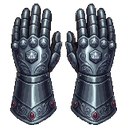
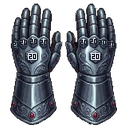
Mythic touches: 20 on every gauntlet die, blood on the mask, a golfer figurine
Drawn as pixel art on the finished 128px icons (cut_mythic_art.py
TOUCHES) so they read at game size: every die on the Gauntlets of Dungeon
Mastering reads 20, a few blood drips and spatters round Hannibals Mask's
mouth grille, and a small gold fist-pumping golfer on Tigers Sunday Red's
right chest.

test_bladed_doughnut: the Wooden Sword's slot test used Slash, which has
no slot label and so can never be slotted (the labels rule); it now
slots Savage Strike, a Sword card, and checks Slash is refused.

Claude-Session: https://claude.ai/code/session_012Y7A5C94YdKvjr5EFVon5m

diff --git a/tools/cut_mythic_art.py b/tools/cut_mythic_art.py
@@ -242,8 +242,131 @@ def cut(sheet: Image.Image, box, fix=None, tols=None) -> Image.Image:
     size = (max(1, round(piece.width * scale)), max(1, round(piece.height * scale)))
     small = piece.convert("RGBa").resize(size, Image.LANCZOS).convert("RGBA")
     out = Image.new("RGBA", (CANVAS, CANVAS))
-    out.paste(small, ((CANVAS - size[0]) // 2, (CANVAS - size[1]) // 2))
+    ox, oy = (CANVAS - size[0]) // 2, (CANVAS - size[1]) // 2
+    out.paste(small, (ox, oy))
+    # Where a point of the panel crop lands on the canvas (for TOUCHES).
+    pad = PAD if fix is not None else 0
+    cut.last_map = lambda px, py: (round((px + pad - x0) * scale + ox), round((py + pad - y0) * scale + oy))
     return out
+
+
+# ---------------------------------------------------------------------------
+# Touches the designer asked for (2026-10-31), drawn as pixel art on the
+# finished 128px icon so they read at the size the game shows it. Positions
+# are given on the panel crop and mapped onto the canvas.
+# ---------------------------------------------------------------------------
+
+_DIGITS = {  # 3x5 pixel digits
+    "2": ("111", "001", "111", "100", "111"),
+    "0": ("111", "101", "101", "101", "111"),
+}
+INK = (24, 22, 32, 255)
+
+
+def _write(px, x, y, text, ink=INK, plate=None):
+    """`text` in 3x5 digits with its top-left at (x, y); `plate` lays a
+    1px-padded backing first."""
+    w = len(text) * 4 - 1
+    if plate:
+        for yy in range(y - 1, y + 6):
+            for xx in range(x - 1, x + w + 1):
+                px[xx, yy] = plate
+    for i, ch in enumerate(text):
+        for r, row in enumerate(_DIGITS[ch]):
+            for c, bit in enumerate(row):
+                if bit == "1":
+                    px[x + i * 4 + c, y + r] = ink
+
+
+def _twenty_dice(img, at):
+    """Gauntlets of Dungeon Mastering: every die reads 20 — the two big
+    dice on the backs of the hands (painted with a 20 the shrink blurs
+    away) and the eight knuckle dice (which had none). Dark digits on the
+    silver; the big dice keep their pale face behind them."""
+    px = img.load()
+    big = [(96, 171), (300, 171)]
+    knuckles = [(42, 134), (69, 126), (100, 124), (131, 126),
+                (260, 126), (291, 124), (322, 126), (352, 134)]
+    face = (214, 220, 228, 255)
+    for cx, cy in big:
+        x, y = at(cx, cy)
+        _write(px, x - 3, y - 2, "20", plate=face)
+    # The knuckle dice are only 6..9px across here: their 20 is engraved
+    # straight into the silver (dark digits, no face plate, which read as a
+    # sticker), the outer two nudged inward to stay on their die.
+    for i, (cx, cy) in enumerate(knuckles):
+        x, y = at(cx, cy)
+        nudge = 1 if i == 0 else (-1 if i == len(knuckles) - 1 else 0)
+        _write(px, x - 3 + nudge, y - 2, "20", ink=(30, 32, 44, 255))
+
+
+def _blood_on_mask(img, at):
+    """Hannibals Mask: a few small blood drops round the mouth grille —
+    drips running from its lower lip and rounding off at the end, and a few
+    spatters beside it."""
+    px = img.load()
+    dark, mid, hi = (92, 6, 10, 255), (148, 12, 18, 255), (210, 48, 48, 255)
+    # Drips from the grille's lower lip: (x, top y, length). A drip is two
+    # pixels wide where it runs, ending in a round bead a shade darker.
+    for x, y, n in [(43, 90, 5), (50, 91, 8), (57, 90, 4)]:
+        for k in range(n):
+            px[x, y + k] = mid
+            px[x + 1, y + k] = dark
+        px[x, y] = hi
+        for bx, by, c in [(x - 1, y + n, dark), (x, y + n, mid), (x + 1, y + n, dark),
+                          (x - 1, y + n + 1, dark), (x, y + n + 1, dark), (x + 1, y + n + 1, dark),
+                          (x, y + n - 1, hi)]:
+            px[bx, by] = c
+    # Spatters beside the grille: a bead (2x2) and a few specks.
+    for x, y in [(35, 80), (65, 78)]:
+        px[x, y] = mid; px[x + 1, y] = dark; px[x, y + 1] = dark; px[x + 1, y + 1] = dark
+        px[x, y - 1] = hi
+    for x, y, c in [(37, 85, mid), (63, 85, mid), (66, 82, dark), (46, 98, dark), (60, 97, mid)]:
+        px[x, y] = c
+
+
+def _sunday_figurine(img, at):
+    """Tigers Sunday Red: a small figurine on the right chest (the viewer's
+    right, where a polo's logo sits) — a little gold golfer, fist pumped
+    high, club held down in the other hand. Gold so it reads on the red
+    stripes; a tiny emblem, not a portrait."""
+    px = img.load()
+    colors = {
+        "K": (40, 20, 10, 255),     # outline
+        "H": (255, 236, 150, 255),  # gold highlight
+        "Y": (232, 184, 64, 255),   # gold
+        "D": (168, 116, 30, 255),   # gold shadow
+        "S": (196, 200, 210, 255),  # club (steel)
+    }
+    sprite = [
+        "...KKK.....",
+        "..KHYYK....",
+        "..KYYDK....",
+        ".KKYDKK....",
+        "KHK.K......",
+        "KYK.KK.....",
+        ".KYKYYKK...",
+        "..KYYYYDK..",
+        "...KYYDKSK.",
+        "...KYYDK.S.",
+        "...KYDDK.S.",
+        "..KYYKDDK.S",
+        "..KYK.KDK.S",
+        ".KYYK.KDDKS",
+        ".KKKK.KKKK.",
+    ]
+    x0, y0 = 81, 42
+    for y, row in enumerate(sprite):
+        for x, ch in enumerate(row):
+            if ch != ".":
+                px[x0 + x, y0 + y] = colors[ch]
+
+
+TOUCHES = {
+    "gauntlets_of_dungeon_mastering": _twenty_dice,
+    "hannibals_mask": _blood_on_mask,
+    "tigers_sunday_red": _sunday_figurine,
+}
 
 
 def main() -> None:
@@ -253,6 +376,8 @@ def main() -> None:
         sheet = Image.open(path)
         for slug, box in pieces:
             img = cut(sheet, box, FIXES.get(slug), TOLS.get(sheet_name))
+            if slug in TOUCHES:
+                TOUCHES[slug](img, cut.last_map)
             img.save(OUT % slug)
             bb = img.getbbox()
             print("%-32s %s -> %dx%d on %d" % (slug, sheet_name, bb[2] - bb[0], bb[3] - bb[1], CANVAS))

diff --git a/docs/ASSET_PACKS.md b/docs/ASSET_PACKS.md
@@ -228,6 +228,7 @@ script cuts each one out of its background into the generated-monsters set.
 | `ice_spike_0..4.png` (2026-10-23; five 128×128 transparent frames on one canvas, stored in playing order — the designer's frames 3, 4, 7, 9, 11: a thin shard, the spike rising, the full stalagmite, cracking, shattered) | `generated/fx/ice_spike_strip.png`, 5 frames of 128×128 — Surrounding Ice: a spike erupts on every tile the 2.5-tile radius reaches (none on the caster's tile, none under an enemy the miss roll spared), rippling outward, each playing all five frames; drawn ×0.5 (full size a spike stands ~3 tiles and the field buries the caster) (`scripts/effects/surrounding_ice_fx.gd`, from main's Surrounding Ice resolution; replaced the old procedural icicles). Cryonics wears the same spike widened ×2.6 at ×0.7 height into a see-through (45%) block of ice around the iced character: it rises as the card lands, stands for the 15 tempo and cracks and shatters on the thaw (`scripts/effects/cryonics_ice_fx.gd`) | `tools/cut_ice_spike.py` — packs the frames; every frame stands on one base point (62, 98) |
 | `lightning_sheet.png` (2026-10-23; a 484×407 screenshot of a sheet on flat grey: blue horizontal arcs, blue crackles, a gold bolt striking down, its gold ground burst) | `generated/fx/shock_arc_strip.png` (6), `shock_crackle_strip.png` (5), `thunder_strike_strip.png` (6), `thunder_impact_strip.png` (5) — blue for Shock, gold for God of Thunder (designer): a Shock tick crackles over the shocked enemy (or shocked player) and arcs, laid flat and stretched, to whoever the damage jumps to; God of Thunder pulls each drained enemy's Shock into the target as blue arcs, then the gold bolt strikes down on it and bursts across the ground (`scripts/effects/lightning_fx.gd`; replaced the old procedural bolt) | `tools/cut_lightning.py` — un-blends the grey into alpha (the glow is kept soft), cuts frames at measured columns, packs a strip per band aligned by how each is pinned (arcs left-middle, crackles centre, bolt and burst bottom-centre). The first ground-burst frame is clipped by the sheet's edge |
 | `mythic_helms.jpg`, `mythic_chests.jpg`, `mythic_weapons.jpg`, `mythic_gauntlets.jpg`, `mythic_boots.jpg`, `mythic_wands.webp`, `mythic_belts.webp`, `mythic_rings.webp`, `mythic_shields.webp`, `mythic_bows.webp` (2026-10-23; 1024×1024 sheets of framed dark panels, one mythic to a panel: Headbandz, Hannibal's Mask, Mane of Narashimha, Scholars Cap; Adimantium, Tiger's Sunday Red, Divine Resistance, Hide of Garmr; Sabre Tooth, Sword of Theseus, Umbral Eclipse, Poseidon's Trident; Gauntlets of Dungeon Mastering, Hallowed Trunk, Cuffs of Current, Concealed Carry; Boots of the Balancer, Hermes Boots, Jordan 1s, Guardian Greaves; Wand of the Phoenix Feather, Circe's Wand, Reaper Scythe, Feral Evocation; Belt of Scrolls, Megingjord, Orion's Belt, Girdle of Aphrodite; The Precious, Ring of Nibelung, Draupnir, Ring of Thomas the Train Tracks; Delfin's Round Shield, Steve Rodgers' Bastion, Presence of Mind, Crooked Dueling Shield; Bow of Arash, Belthronding, Bow of Budding Blasts — every mythic but the Bladed Doughnut) | `assets/items/mythic/<slug>.png`, 128×128 transparent, mipmapped — each item's own picture (`ItemData.appearance_icon`): its inventory cell, its equipment slot and its detail panel, stored or equipped, shrunk smoothly to each box; a mythic weapon is held at the same 0.6-tile length the 32-px icons were. Replaced the generated 32-px icons for these items (only the Bladed Doughnut keeps its own, from `tools/generate_mythic_icons.py`) | `tools/cut_mythic_art.py` — the flat panel colour is flood-filled away from each crop's edge (tight: the art's dark outlines sit only ~10 levels off it), enclosed panel pockets (ring middles) cut too, the rim faded, JPEG specks dropped, fitted to 122 px on the 128 canvas with premultiplied Lanczos. The Bow of Arash's arrow is flipped (designer): its head and fletching trade ends, each turned half a turn about the arrow's measured midpoint, after the panel is cut away |
+| (touches, 2026-10-31) | `tools/cut_mythic_art.py` `TOUCHES`, drawn as pixel art on the finished 128px icons at the designer's request: every die on the **Gauntlets of Dungeon Mastering** reads 20 (the two big dice's painted 20 lost in the shrink, redrawn crisp on a pale face; the eight knuckle dice engraved), a few blood drips and spatters round **Hannibals Mask**'s mouth grille, and a small gold fist-pumping golfer figurine on **Tigers Sunday Red**'s right chest (no source art has these, so they are drawn in the icons' own pixel style) | — |
 | `mythic_bladed_doughnut.png` (2026-10-31; the Bladed Doughnut on its own dark panel: a pink-frosted doughnut with sprinkles, its rim set with steel spikes — the last mythic to be painted) | `assets/items/mythic/bladed_doughnut.png`, 128×128 like the other mythics — its inventory cell, equipment slot and detail panel, and the doughnut Olorin holds up in the mythic lesson (`Olorin.DoughnutIcon`, once a long john drawn from boxes). Replaced the generated 32-px sprite; `tools/generate_mythic_icons.py` draws no mythic any more | `tools/cut_mythic_art.py` (the `bladed_doughnut` sheet; a looser panel tolerance, `TOLS`, for the soft shadow along the panel's foot) |
 | `frankenstein_board.jpg`, `giant_beaver_board.jpg`, `wyvern_board.webp`, `ring_wraith_board.jpg` (2026-10-23; four-direction pose boards, one pose a direction: Frankensteins Monster on a stone floor — both its side views face right; the Giant Beaver up on its hind legs and on all fours; the Wyvern; the mounted Ring Wraith front, back and right side — the last three on painted-in checkerboards) | `generated/sheets/<kind>/Idle.png` + `Walk.png`, Craftpix layout (rows front, back, left, right; a missing side is the mirror): `frankenstein` (the ITS ALIVE!!!!! summon, ~1.4 tiles), `giant_beaver` (~1.05 standing; it walks on all fours), `wyvern` (~1.75), `ring_wraith` (~1.8, mounted — it now casts a blob shadow), all ×1.0. Replaced Zombie2, a tinted MonsterKit battler (×2) and Ghost3. With one walk pose a direction, the figure steps 2 texels up and back down 3.5 times a second while it moves (`SpriteEnemyFigure.STEP_LIFT`) | `tools/cut_pose_boards.py` — checkerboards: the neutral checker colours flood-filled away from each pose's box (the art's dark outline stops the fill), enclosed pockets ≥100 px cut, labels and specks dropped; stone floor: the outline thickened 3 px to close its pinholes and the green skin walled off before the fill, the floor-coloured fringe peeled back after. One shrink factor a creature (the front Idle sets the height), box-filtered with on/off alpha at 32 texels a tile |
 | `sanguine_penguin_board.jpg` (2026-10-24; Sanguine the blood penguin, the Nine Ruins of Sanguine's summon, in a Spartan helm on a dark icy cave: three right-facing views, one left, his back (labelled "facing down") and front ("facing up")) | `assets/sprites/generated/sheets/sanguine_penguin/{Idle,Walk}.png` (1.15 tiles tall at 64 texels a tile, Craftpix layout), worn by `SanguinePenguin` through `SpriteEnemyFigure` (`sanguine_penguin`); it replaced the procedural capsule penguin | `tools/cut_pose_boards.py` (`grabcut` boards) — the sky is as dark as his back and the ice as pale as his belly, so OpenCV GrabCut cuts each pose from its box, started from sky/ice hints and measured boxes that are surely him (flippers, black back), its seed fixed; enclosed holes filled, the ice's shadow under his feet trimmed |
